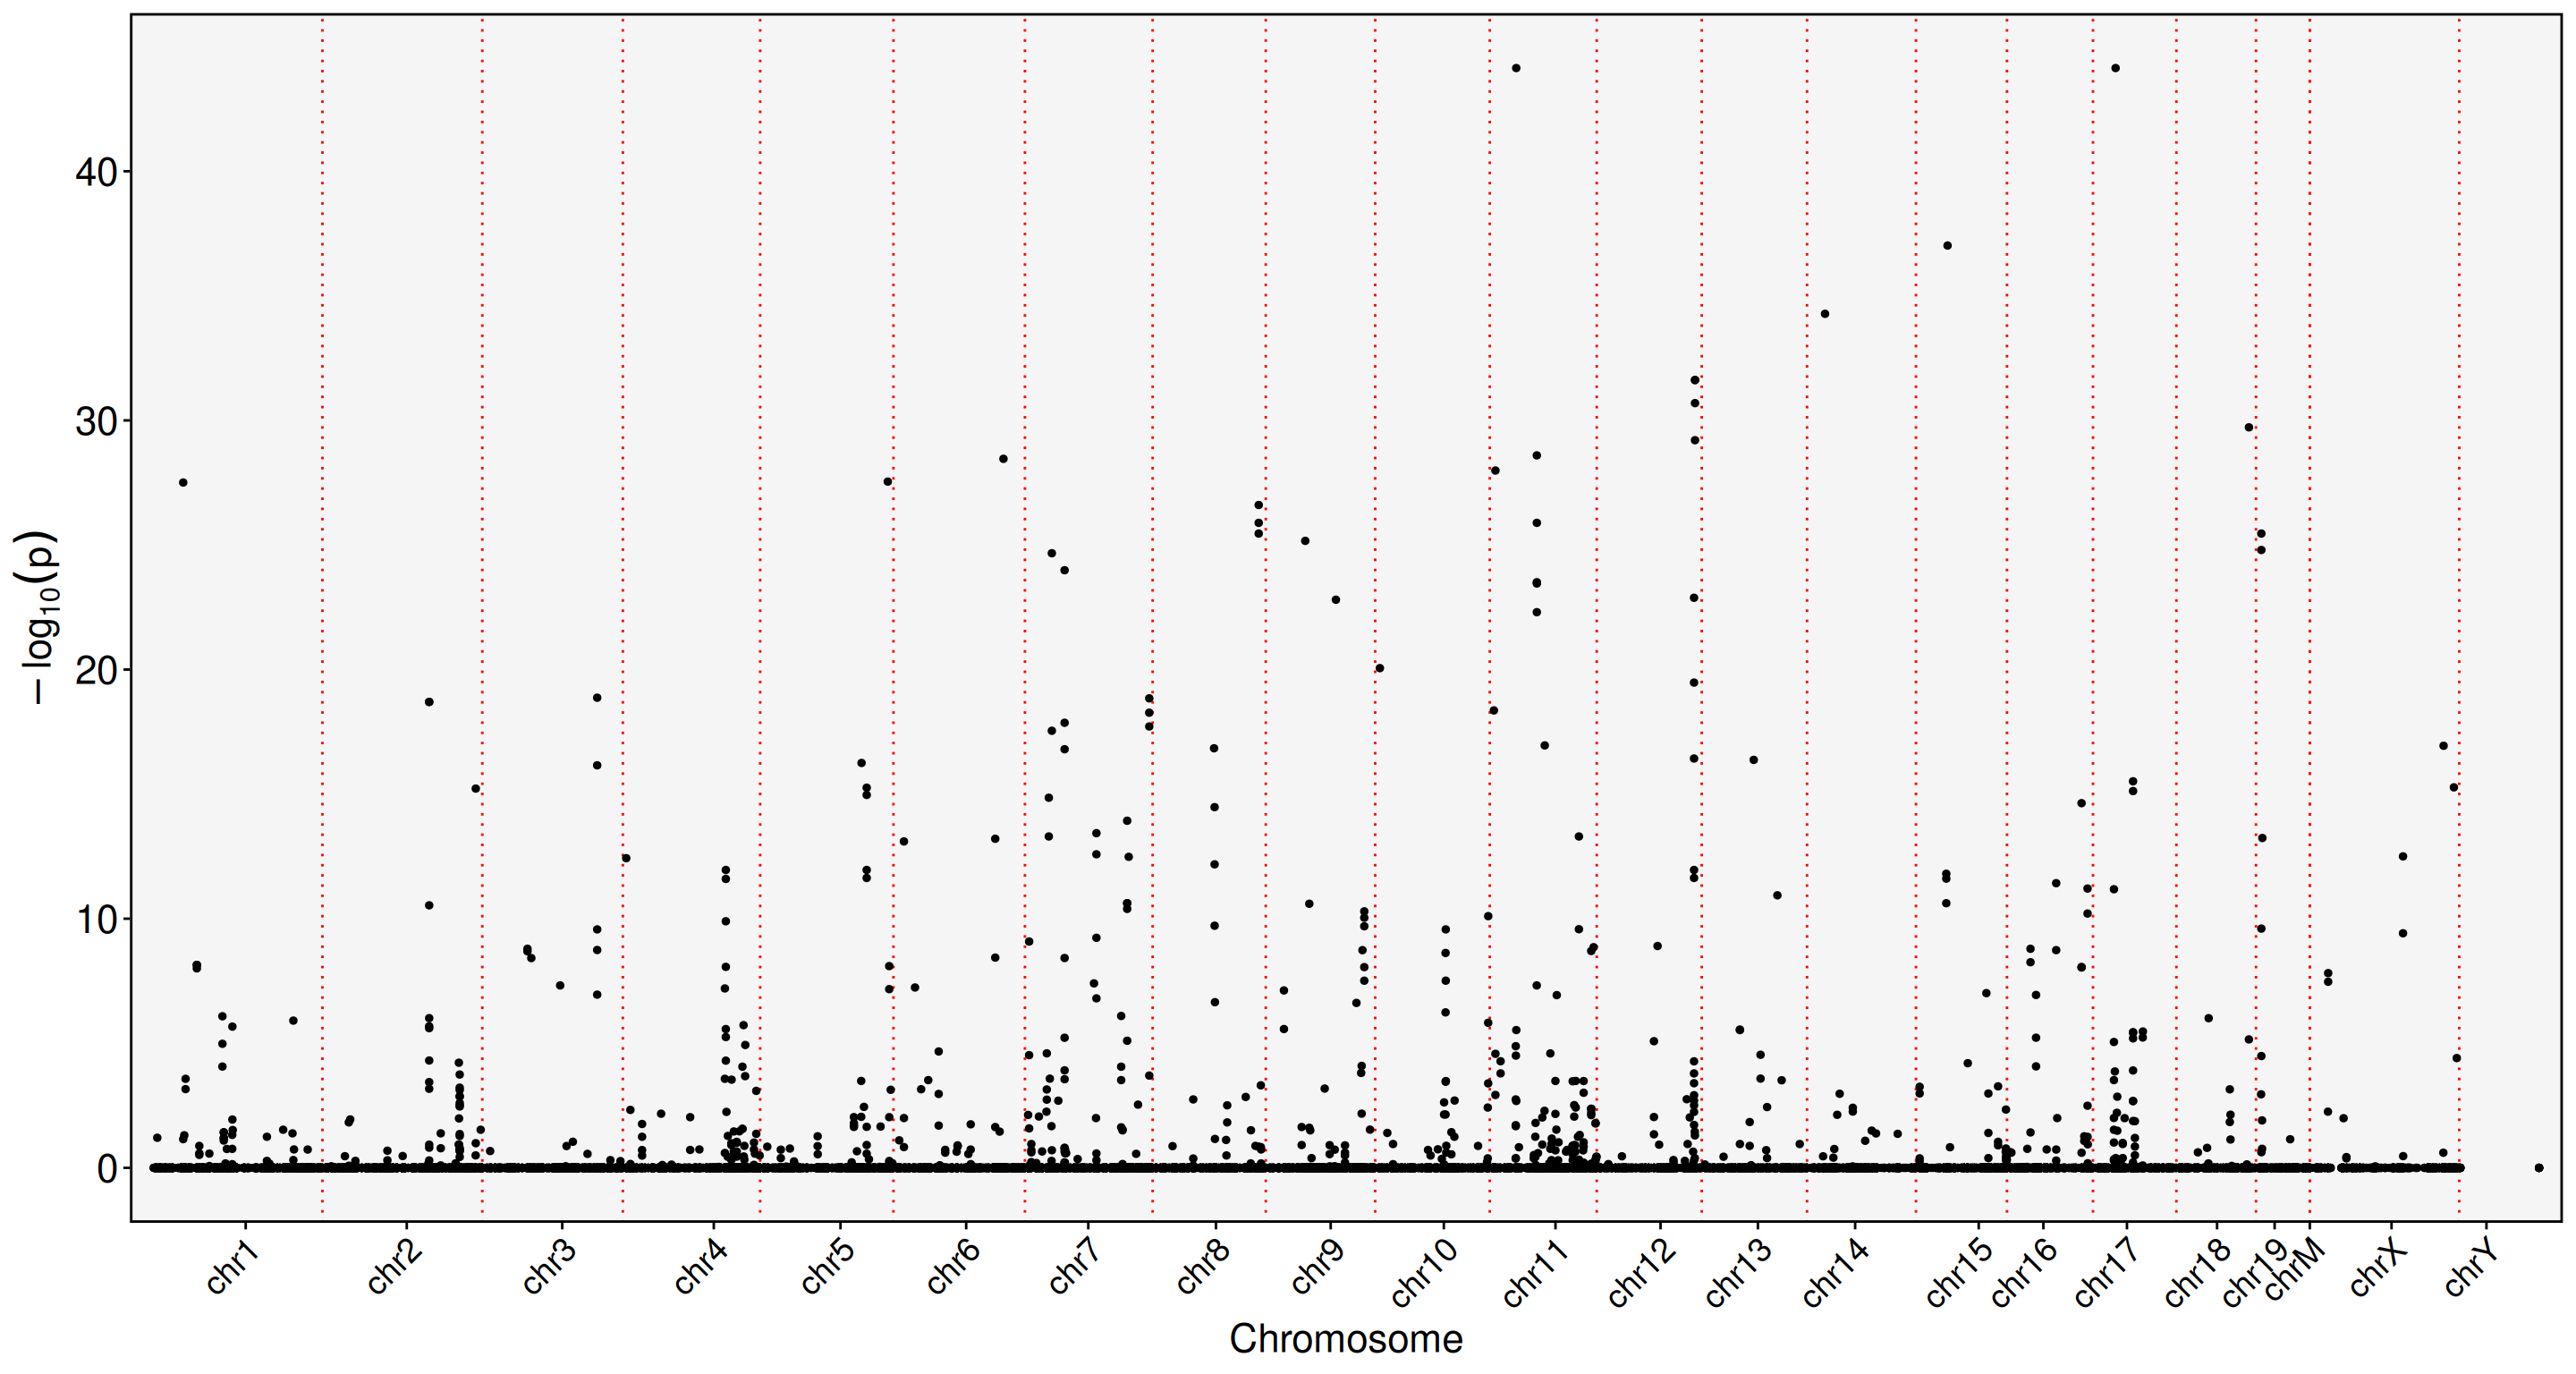
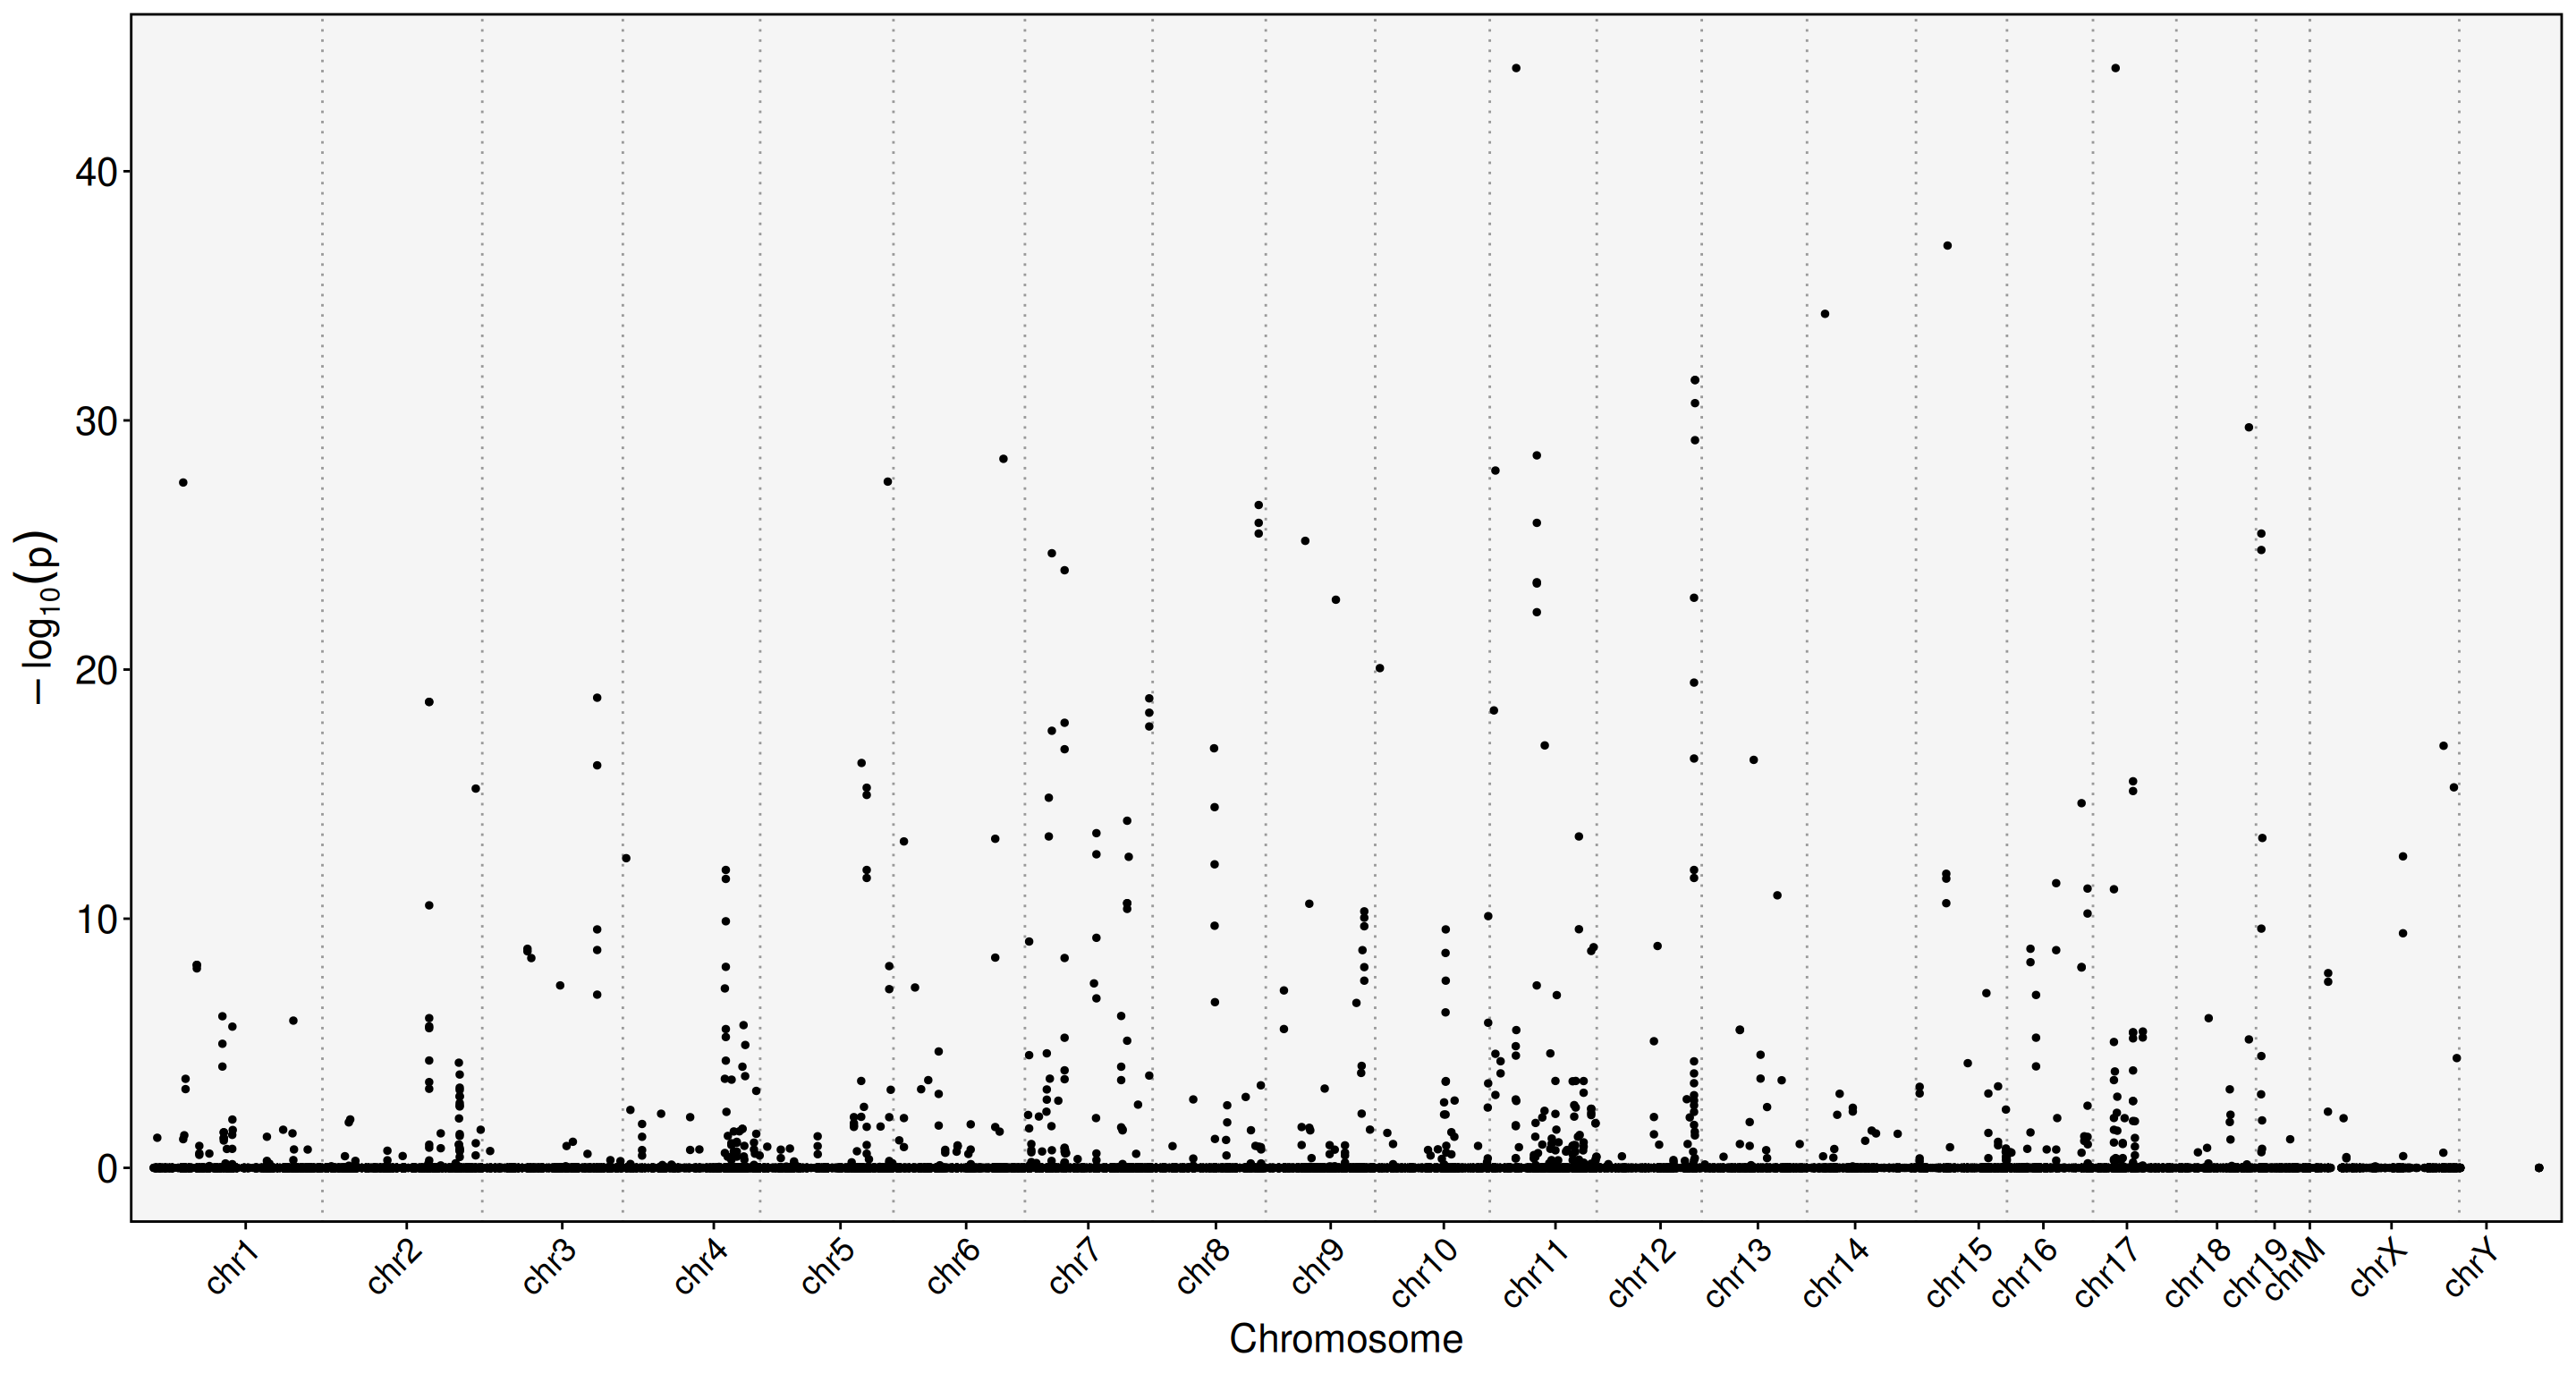
render: update Visium docs with Yano v1.5

diff --git a/docs/Visium.html b/docs/Visium.html
@@ -661,16 +661,16 @@ Elapsed time: 0 seconds</code></pre>
 <pre><code>object &lt;- RunUMAP(object, dims = 1:20)</code></pre>
 </div>
 <div class="cell-output cell-output-stderr">
-<pre><code>20:22:19 UMAP embedding parameters a = 0.9922 b = 1.112</code></pre>
+<pre><code>14:46:37 UMAP embedding parameters a = 0.9922 b = 1.112</code></pre>
 </div>
 <div class="cell-output cell-output-stderr">
-<pre><code>20:22:19 Read 12148 rows and found 20 numeric columns</code></pre>
+<pre><code>14:46:37 Read 12148 rows and found 20 numeric columns</code></pre>
 </div>
 <div class="cell-output cell-output-stderr">
-<pre><code>20:22:19 Using Annoy for neighbor search, n_neighbors = 30</code></pre>
+<pre><code>14:46:37 Using Annoy for neighbor search, n_neighbors = 30</code></pre>
 </div>
 <div class="cell-output cell-output-stderr">
-<pre><code>20:22:19 Building Annoy index with metric = cosine, n_trees = 50</code></pre>
+<pre><code>14:46:37 Building Annoy index with metric = cosine, n_trees = 50</code></pre>
 </div>
 <div class="cell-output cell-output-stderr">
 <pre><code>0%   10   20   30   40   50   60   70   80   90   100%</code></pre>
@@ -680,14 +680,14 @@ Elapsed time: 0 seconds</code></pre>
 </div>
 <div class="cell-output cell-output-stderr">
 <pre><code>**************************************************|
-20:22:23 Writing NN index file to temp file /local/tmp/RtmpNk55Qu/file1cf3702a59c05a
-20:22:23 Searching Annoy index using 1 thread, search_k = 3000
-20:22:43 Annoy recall = 100%
-20:22:43 Commencing smooth kNN distance calibration using 1 thread with target n_neighbors = 30
-20:22:44 Initializing from normalized Laplacian + noise (using RSpectra)
-20:22:57 Commencing optimization for 200 epochs, with 500526 positive edges
-20:22:57 Using rng type: pcg
-20:23:12 Optimization finished</code></pre>
+14:46:42 Writing NN index file to temp file /local/tmp/RtmpWPaWRY/file21c4cb60805922
+14:46:42 Searching Annoy index using 1 thread, search_k = 3000
+14:47:01 Annoy recall = 100%
+14:47:01 Commencing smooth kNN distance calibration using 1 thread with target n_neighbors = 30
+14:47:02 Initializing from normalized Laplacian + noise (using RSpectra)
+14:47:16 Commencing optimization for 200 epochs, with 500526 positive edges
+14:47:16 Using rng type: pcg
+14:47:31 Optimization finished</code></pre>
 </div>
 <div class="code-copy-outer-scaffold"><div class="sourceCode cell-code" id="cb44"><pre class="sourceCode r code-with-copy"><code class="sourceCode r"><span id="cb44-1"><a href="#cb44-1" aria-hidden="true" tabindex="-1"></a>p1 <span class="ot">&lt;-</span> <span class="fu">DimPlot</span>(obj, <span class="at">group.by =</span> <span class="st">"orig.ident"</span>)</span>
 <span id="cb44-2"><a href="#cb44-2" aria-hidden="true" tabindex="-1"></a>p2 <span class="ot">&lt;-</span> <span class="fu">DimPlot</span>(obj)</span>
@@ -728,7 +728,7 @@ See help("Deprecated") and help("Matrix-deprecated").</code></pre>
 <div class="cell-output cell-output-stderr">
 <pre><code>Working on assay : exon
 Run autocorrelation test for 80178 features.
-Runtime : 23.67297 secs
+Runtime : 20.818 secs
 38784 autocorrelated features.</code></pre>
 </div>
 <div class="code-copy-outer-scaffold"><div class="sourceCode cell-code" id="cb52"><pre class="sourceCode r code-with-copy"><code class="sourceCode r"><span id="cb52-1"><a href="#cb52-1" aria-hidden="true" tabindex="-1"></a>obj <span class="ot">&lt;-</span> <span class="fu">RunSDT</span>(obj, <span class="at">bind.name =</span> <span class="st">"gene_name"</span>, <span class="at">bind.assay =</span> <span class="st">"RNA"</span>)</span></code></pre></div><button title="Copy to Clipboard" class="code-copy-button"><i class="bi"></i></button></div>
@@ -741,7 +741,7 @@ Processing 15696 binding features.
 Retrieve binding data from assay RNA.
 Use "data" layer for test features and binding features.
 Using 95 threads.
-Runtime : 3.28409 mins.</code></pre>
+Runtime : 2.730924 mins.</code></pre>
 </div>
 <div class="code-copy-outer-scaffold"><div class="sourceCode cell-code" id="cb54"><pre class="sourceCode r code-with-copy"><code class="sourceCode r"><span id="cb54-1"><a href="#cb54-1" aria-hidden="true" tabindex="-1"></a><span class="fu">FbtPlot</span>(obj, <span class="at">val =</span> <span class="st">"gene_name.padj"</span>)</span></code></pre></div><button title="Copy to Clipboard" class="code-copy-button"><i class="bi"></i></button></div>
 <div class="cell-output-display">
@@ -774,9 +774,9 @@ Runtime : 3.28409 mins.</code></pre>
 <div class="cell">
 <div class="code-copy-outer-scaffold"><div class="sourceCode cell-code" id="cb57"><pre class="sourceCode r code-with-copy"><code class="sourceCode r"><span id="cb57-1"><a href="#cb57-1" aria-hidden="true" tabindex="-1"></a>gtf <span class="ot">&lt;-</span> <span class="fu">gtf2db</span>(<span class="st">"./visium/gencode.vM10.annotation.gtf.gz"</span>)</span></code></pre></div><button title="Copy to Clipboard" class="code-copy-button"><i class="bi"></i></button></div>
 <div class="cell-output cell-output-stdout">
-<pre><code>[2026-06-11 20:28:55] GTF loading..
-[2026-06-11 20:29:10] Load 48440 genes.
-[2026-06-11 20:29:10] Load time : 14.933 sec</code></pre>
+<pre><code>[2026-06-15 14:52:36] GTF loading..
+[2026-06-15 14:52:51] Load 48440 genes.
+[2026-06-15 14:52:51] Load time : 14.983 sec</code></pre>
 </div>
 <div class="code-copy-outer-scaffold"><div class="sourceCode cell-code" id="cb59"><pre class="sourceCode r code-with-copy"><code class="sourceCode r"><span id="cb59-1"><a href="#cb59-1" aria-hidden="true" tabindex="-1"></a>bamfiles <span class="ot">&lt;-</span> <span class="fu">list</span>(</span>
 <span id="cb59-2"><a href="#cb59-2" aria-hidden="true" tabindex="-1"></a>  <span class="at">sec1_ant =</span> <span class="st">"./visium/section1/Anterior/V1_Mouse_Brain_Sagittal_Anterior_possorted_genome_bam.bam"</span>,</span>
@@ -839,7 +839,7 @@ Runtime : 3.28409 mins.</code></pre>
 <pre><code>Run autocorrelation test for 80178 features.</code></pre>
 </div>
 <div class="cell-output cell-output-stderr">
-<pre><code>Runtime : 38.75357 secs</code></pre>
+<pre><code>Runtime : 37.547 secs</code></pre>
 </div>
 <div class="cell-output cell-output-stderr">
 <pre><code>36013 autocorrelated features.</code></pre>
@@ -874,7 +874,7 @@ Runtime : 3.28409 mins.</code></pre>
 <pre><code>Using 95 threads.</code></pre>
 </div>
 <div class="cell-output cell-output-stderr">
-<pre><code>Runtime : 2.361842 mins.</code></pre>
+<pre><code>Runtime : 1.973901 mins.</code></pre>
 </div>
 <div class="code-copy-outer-scaffold"><div class="sourceCode cell-code" id="cb81"><pre class="sourceCode r code-with-copy"><code class="sourceCode r"><span id="cb81-1"><a href="#cb81-1" aria-hidden="true" tabindex="-1"></a><span class="fu">FbtPlot</span>(obj, <span class="at">val =</span> <span class="st">"gene_name.padj"</span>)</span></code></pre></div><button title="Copy to Clipboard" class="code-copy-button"><i class="bi"></i></button></div>
 <div class="cell-output-display">